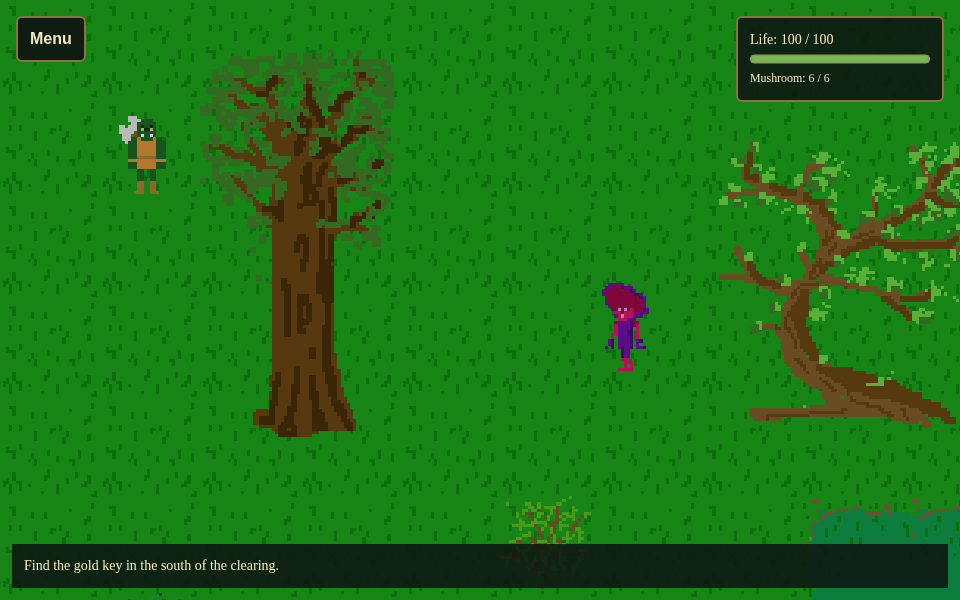
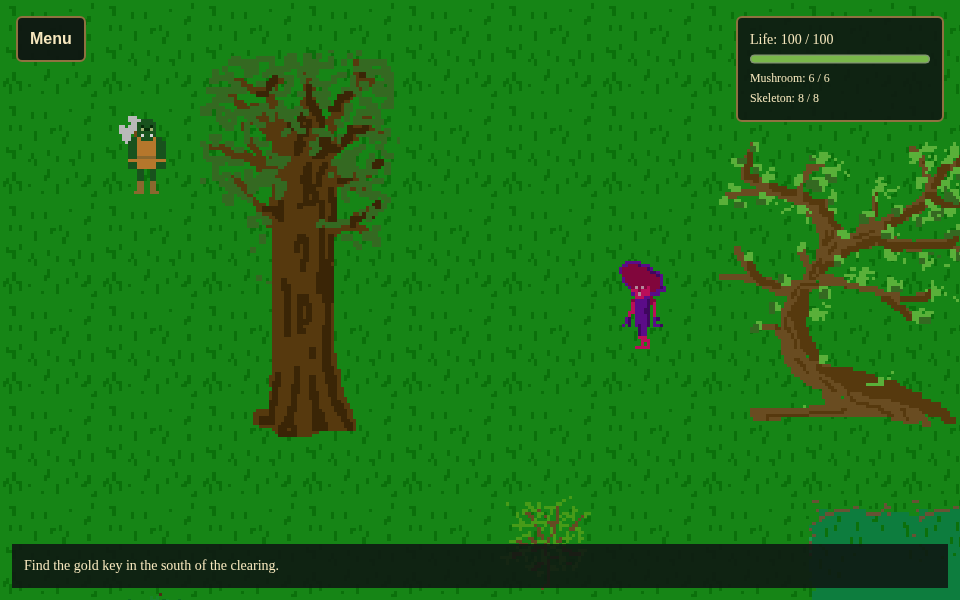
Add skeleton warrior as a second Swamps RPG enemy

Changed region(s): [[0.75, 0.15, 1.0, 0.21], [0.625, 0.42, 0.6875, 0.63]]

diff --git a/inst/examples/swamps_rpg/README.md b/inst/examples/swamps_rpg/README.md
@@ -1,11 +1,13 @@
 # Swamp clearing (Swamps RPG example)
 
-A short exploration demo: collect the gold key in the south, fight one
-mushroom enemy, and reach the blue doorway in the north-east. The doorway leads
+A short exploration demo: collect the gold key in the south, fight a mushroom
+and skeleton warrior, and reach the blue doorway in the north-east. It leads
 to a small hut. Walk to its blue exit to return. Arrow keys move the hero;
 press Space at close range to attack. The hero starts with 100 life points;
-the mushroom has 6. Three hits defeat it. Contact costs 10 life points at most
-once per second. At zero life, use the menu to restart or load a save.
+the mushroom has 6 and the skeleton 8. Three hits defeat the mushroom and
+four defeat the skeleton. Contact costs 10 (mushroom) or 12 (skeleton) life
+points, with one shared one-second damage cooldown. At zero life, use the menu
+to restart or load a save.
 
 From the repository root, after installing the current shinyphaser version:
 
@@ -18,22 +20,29 @@ shiny::runApp("inst/examples/swamps_rpg")
 - Walk behind a tree or a bush. Its artwork can hide the hero, while a
   separate invisible footprint blocks only its base. All seven scenery objects
   have fixed placements on grass.
-- Approach the mushroom to see its alert and pursuit; move away to let it wander.
+- Approach either enemy to see its alert and pursuit; move away to let it wander.
 - Press Space to attack, with a 0.6-second cooldown. Life points and the
   enemy's remaining health stay visible over the map; the Menu opens over it.
-- Hits push the mushroom away by up to 52 pixels and show a damage reaction; the final hit plays the destruction animation
-  before the mushroom disappears. Defeated enemies cannot deal damage.
+- Hits push enemies away by up to 52 pixels and show a damage reaction; the
+  final hit plays the destruction animation
+  before the mushroom disappears. The skeleton has no destruction sheet and
+  disappears after its damage reaction. Defeated enemies cannot deal damage.
 - Collect the key, enter the hut, and return. Map activation changes terrain,
   collisions, camera bounds, and the visibility and physics of scene objects.
 - Toggle Sound to enable or mute the short key/doorway chime.
 - Save, move somewhere else, then Load. One save slot stores the current map,
-  objective progress, life points, enemy health, and hero/enemy positions for
+  objective progress, life points, enemy health, and hero and both enemy positions for
   this browser session.
   Saves are deleted when the Shiny session ends; they are not shared with visitors.
-- New game resets the objective and both actors, leaving the save slot available.
+- New game resets the objective and all three actors, leaving the save slot available.
 
-The encounter stays small: one enemy, one key, and one hut. The clearing
+The encounter stays small: two enemies, one key, and one hut. The clearing
 is 16 by 12 tiles (1600 by 1200 pixels); the hut is 10 by 6 tiles (1000 by 600 pixels).
+
+A swing hits one living enemy in contact. If both are touching the hero, the
+mushroom is targeted first. The skeleton starts at `(1450, 750)` on grass in
+the eastern clearing; it uses left/right movement and attack sheets, with a
+generic fallback for vertical movement.
 
 ## Code layout
 
@@ -44,7 +53,7 @@ Its server sources these focused modules in order:
 - `navigation_setup.R`: load the two maps and their embedded tilesets.
 - `hero.R`: movement animations, controls, foot-sized body, and depth sorting.
 - `scenery_layout.R`: the small, deliberate scenery layout (loaded by `app.R`).
-- `scenery.R`: scenery art and footprints, one enemy, markers, and sound.
+- `scenery.R`: scenery art and footprints, two enemies, markers, and sound.
 - `combat.R`: attacks, contact damage, cooldowns, health display, and defeat.
 - `navigation.R`: proximity triggers, key/door objective, and restart.
 - `saving.R`: save/load using the package's R interface.

diff --git a/NEWS.md b/NEWS.md
@@ -87,7 +87,7 @@ Existing apps need to update their event handlers to use the explicit
 * Added a Geometry Dash-style runner (`geometry_dash`) with automatic movement,
   jumping, spike obstacles, a finish line, and restart controls.
 * Added a compact Swamps RPG exploration example (`swamps_rpg`) with a clearing
-  and hut, a key objective, one approaching enemy, combat with hit reactions and
+  and hut, a key objective, mushroom and skeleton enemies, combat with hit reactions and
   knockback, an overlaid life bar,
   scenery footprints and depth ordering, sound, and session-local save/load.
 * Organized games and their assets into individual directories under

diff --git a/README.md b/README.md
@@ -86,7 +86,7 @@ Three games are included in `inst/examples`, each with its own assets:
   online](https://maciekbanas.shinyapps.io/hedgehog).
 - **Geometry Dash**: jump over spikes in a one-button runner and reach
   the finish.
-- **Swamps RPG**: collect a key, fight a mushroom, and enter a hut;
+- **Swamps RPG**: collect a key, fight mushroom and skeleton enemies, and enter a hut;
   try combat, scenery collision, map switching, sound, and saving.
 
 With the current development version of shinyphaser installed, run each
